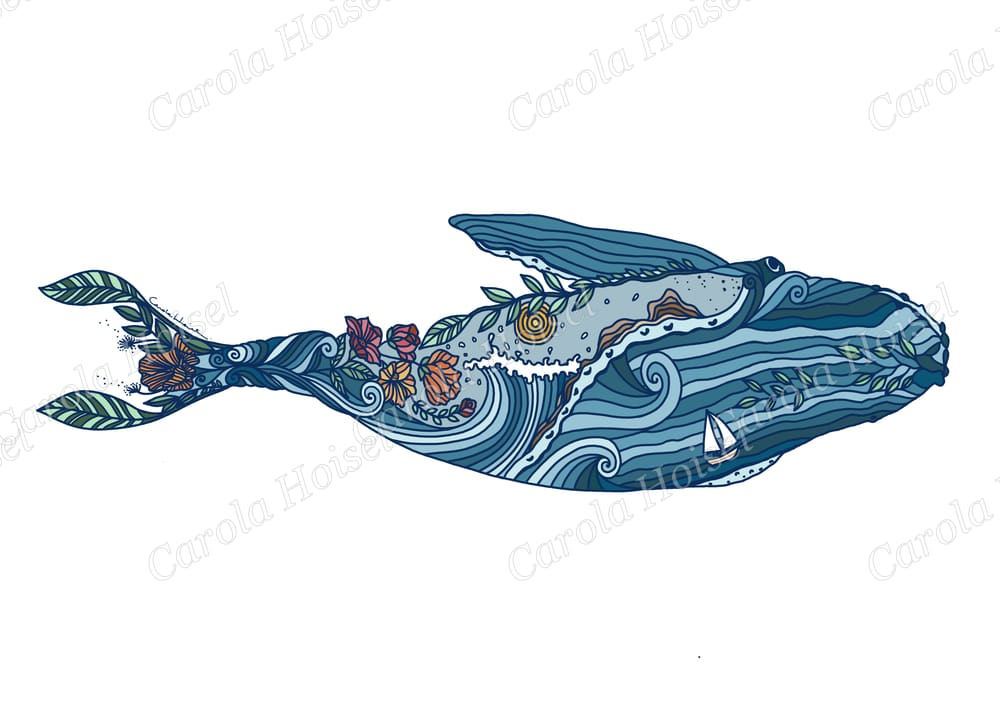
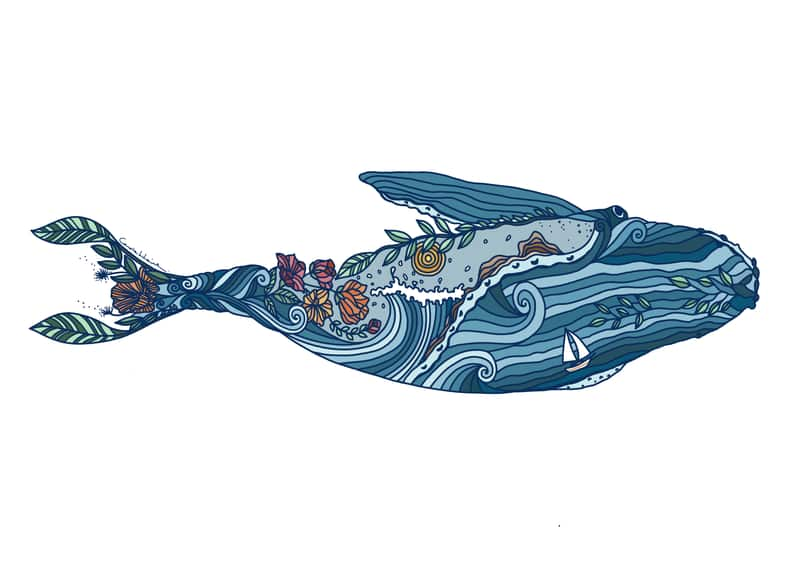
Prévias dos prints sem marca d'água e em qualidade baixa

diff --git a/script.js b/script.js
@@ -119,22 +119,22 @@ const obras = [
   { id: 41, cat: "fine-art", titulo: "Água-viva", tecnica: "Aquarela", cor: "#5d6b7a", image: "AQUARELAS/agua-viva.jpg" },
   { id: 42, cat: "fine-art", titulo: "Xangô", tecnica: "Aquarela", cor: "#9c6244", image: "AQUARELAS/xango.jpg" },
   { id: 43, cat: "fine-art", titulo: "Ibejis", tecnica: "Aquarela", cor: "#c9a882", image: "AQUARELAS/ibejis.jpeg", extras: ["AQUARELAS/ibejis-mockup.jpg"] },
-  { id: 11, cat: "prints", titulo: "Coração do Brasil", tecnica: "Arquivo digital", medidas: "alta resolução", preco: 100, cor: "#d9c4b2", image: "PRINTS-WEB/coracao-do-brasil.jpg" },
-  { id: 12, cat: "prints", titulo: "Polvo Azul", tecnica: "Arquivo digital", medidas: "alta resolução", preco: 100, cor: "#d9c4b2", image: "PRINTS-WEB/polvo-azul.jpg" },
-  { id: 13, cat: "prints", titulo: "Bahia Resistência", tecnica: "Arquivo digital", medidas: "alta resolução", preco: 100, cor: "#d9c4b2", image: "PRINTS-WEB/bahia-resistencia.jpg" },
-  { id: 14, cat: "prints", titulo: "Bananeira", tecnica: "Arquivo digital", medidas: "alta resolução", preco: 100, cor: "#d9c4b2", image: "PRINTS-WEB/bananeira.jpg" },
-  { id: 15, cat: "prints", titulo: "Banana Rosa", tecnica: "Arquivo digital", medidas: "alta resolução", preco: 100, cor: "#d9c4b2", image: "PRINTS-WEB/banana-rosa-agrupada.jpg" },
-  { id: 16, cat: "prints", titulo: "Bomfim", tecnica: "Arquivo digital", medidas: "alta resolução", preco: 100, cor: "#d9c4b2", image: "PRINTS-WEB/bomfim.jpg" },
-  { id: 17, cat: "prints", titulo: "Café para Despertar", tecnica: "Arquivo digital", medidas: "alta resolução", preco: 100, cor: "#d9c4b2", image: "PRINTS-WEB/cafe-para-despertar.jpg" },
-  { id: 18, cat: "prints", titulo: "Eagle Ray", tecnica: "Arquivo digital", medidas: "alta resolução", preco: 100, cor: "#d9c4b2", image: "PRINTS-WEB/eagle-ray.jpg" },
-  { id: 19, cat: "prints", titulo: "Jubarte", tecnica: "Arquivo digital", medidas: "alta resolução", preco: 100, cor: "#d9c4b2", image: "PRINTS-WEB/jubarte.jpg" },
-  { id: 20, cat: "prints", titulo: "Jubarte (fundo amarelo)", tecnica: "Arquivo digital", medidas: "alta resolução", preco: 100, cor: "#d9c4b2", image: "PRINTS-WEB/jubarte-fundo-amarelo.jpg" },
-  { id: 21, cat: "prints", titulo: "Márcio Freire", tecnica: "Arquivo digital", medidas: "alta resolução", preco: 100, cor: "#d9c4b2", image: "PRINTS-WEB/marcio-freire.jpg" },
-  { id: 22, cat: "prints", titulo: "Mermaid", tecnica: "Arquivo digital", medidas: "alta resolução", preco: 100, cor: "#d9c4b2", image: "PRINTS-WEB/parede-agrupada.jpg" },
-  { id: 23, cat: "prints", titulo: "Solitude", tecnica: "Arquivo digital", medidas: "alta resolução", preco: 100, cor: "#d9c4b2", image: "PRINTS-WEB/solitude.jpg" },
-  { id: 24, cat: "prints", titulo: "Sup Yoga", tecnica: "Arquivo digital", medidas: "alta resolução", preco: 100, cor: "#d9c4b2", image: "PRINTS-WEB/sup-yoga.jpg" },
-  { id: 25, cat: "prints", titulo: "Surf Sunset Whale", tecnica: "Arquivo digital", medidas: "alta resolução", preco: 100, cor: "#d9c4b2", image: "PRINTS-WEB/surf-sunset-whale.jpg" },
-  { id: 26, cat: "prints", titulo: "Surfgirl", tecnica: "Arquivo digital", medidas: "alta resolução", preco: 100, cor: "#d9c4b2", image: "PRINTS-WEB/surfgirl.jpg" },
+  { id: 11, cat: "prints", titulo: "Coração do Brasil", tecnica: "Arquivo digital", medidas: "alta resolução", preco: 100, cor: "#d9c4b2", image: "PRINTS-WEB/coracao-do-brasil.jpg?v=2" },
+  { id: 12, cat: "prints", titulo: "Polvo Azul", tecnica: "Arquivo digital", medidas: "alta resolução", preco: 100, cor: "#d9c4b2", image: "PRINTS-WEB/polvo-azul.jpg?v=2" },
+  { id: 13, cat: "prints", titulo: "Bahia Resistência", tecnica: "Arquivo digital", medidas: "alta resolução", preco: 100, cor: "#d9c4b2", image: "PRINTS-WEB/bahia-resistencia.jpg?v=2" },
+  { id: 14, cat: "prints", titulo: "Bananeira", tecnica: "Arquivo digital", medidas: "alta resolução", preco: 100, cor: "#d9c4b2", image: "PRINTS-WEB/bananeira.jpg?v=2" },
+  { id: 15, cat: "prints", titulo: "Banana Rosa", tecnica: "Arquivo digital", medidas: "alta resolução", preco: 100, cor: "#d9c4b2", image: "PRINTS-WEB/banana-rosa-agrupada.jpg?v=2" },
+  { id: 16, cat: "prints", titulo: "Bomfim", tecnica: "Arquivo digital", medidas: "alta resolução", preco: 100, cor: "#d9c4b2", image: "PRINTS-WEB/bomfim.jpg?v=2" },
+  { id: 17, cat: "prints", titulo: "Café para Despertar", tecnica: "Arquivo digital", medidas: "alta resolução", preco: 100, cor: "#d9c4b2", image: "PRINTS-WEB/cafe-para-despertar.jpg?v=2" },
+  { id: 18, cat: "prints", titulo: "Eagle Ray", tecnica: "Arquivo digital", medidas: "alta resolução", preco: 100, cor: "#d9c4b2", image: "PRINTS-WEB/eagle-ray.jpg?v=2" },
+  { id: 19, cat: "prints", titulo: "Jubarte", tecnica: "Arquivo digital", medidas: "alta resolução", preco: 100, cor: "#d9c4b2", image: "PRINTS-WEB/jubarte.jpg?v=2" },
+  { id: 20, cat: "prints", titulo: "Jubarte (fundo amarelo)", tecnica: "Arquivo digital", medidas: "alta resolução", preco: 100, cor: "#d9c4b2", image: "PRINTS-WEB/jubarte-fundo-amarelo.jpg?v=2" },
+  { id: 21, cat: "prints", titulo: "Márcio Freire", tecnica: "Arquivo digital", medidas: "alta resolução", preco: 100, cor: "#d9c4b2", image: "PRINTS-WEB/marcio-freire.jpg?v=2" },
+  { id: 22, cat: "prints", titulo: "Mermaid", tecnica: "Arquivo digital", medidas: "alta resolução", preco: 100, cor: "#d9c4b2", image: "PRINTS-WEB/parede-agrupada.jpg?v=2" },
+  { id: 23, cat: "prints", titulo: "Solitude", tecnica: "Arquivo digital", medidas: "alta resolução", preco: 100, cor: "#d9c4b2", image: "PRINTS-WEB/solitude.jpg?v=2" },
+  { id: 24, cat: "prints", titulo: "Sup Yoga", tecnica: "Arquivo digital", medidas: "alta resolução", preco: 100, cor: "#d9c4b2", image: "PRINTS-WEB/sup-yoga.jpg?v=2" },
+  { id: 25, cat: "prints", titulo: "Surf Sunset Whale", tecnica: "Arquivo digital", medidas: "alta resolução", preco: 100, cor: "#d9c4b2", image: "PRINTS-WEB/surf-sunset-whale.jpg?v=2" },
+  { id: 26, cat: "prints", titulo: "Surfgirl", tecnica: "Arquivo digital", medidas: "alta resolução", preco: 100, cor: "#d9c4b2", image: "PRINTS-WEB/surfgirl.jpg?v=2" },
   { id: 21, cat: "tecido", titulo: "Canga", tecnica: "Canga", medidas: "00 × 00 cm", preco: 180, cor: "#8a9a86", image: "" },
   { id: 22, cat: "tecido", titulo: "Lenço", tecnica: "Lenço de seda", medidas: "00 × 00 cm", preco: 220, cor: "#e3d2c0", image: "" },
   { id: 23, cat: "tecido", titulo: "Pareô", tecnica: "Pareô", medidas: "00 × 00 cm", preco: 160, cor: "#b07a6e", image: "" },

diff --git a/colecao.html b/colecao.html
@@ -10,7 +10,7 @@
   <link
     href="https://fonts.googleapis.com/css2?family=Cormorant+Garamond:wght@400;500;600&family=Nunito:wght@300;400;600&display=swap"
     rel="stylesheet">
-  <link rel="stylesheet" href="styles.css?v=74">
+  <link rel="stylesheet" href="styles.css?v=75">
 </head>
 
 <body id="topo">
@@ -114,7 +114,7 @@
   </aside>
 
   <script src="qrcode.js"></script>
-  <script src="script.js?v=74"></script>
+  <script src="script.js?v=75"></script>
 </body>
 
 </html>

diff --git a/index.html b/index.html
@@ -11,7 +11,7 @@
   <link
     href="https://fonts.googleapis.com/css2?family=Cormorant+Garamond:wght@400;500;600&family=Nunito:wght@300;400;600&display=swap"
     rel="stylesheet">
-  <link rel="stylesheet" href="styles.css?v=74">
+  <link rel="stylesheet" href="styles.css?v=75">
 </head>
 
 <body id="topo">
@@ -217,7 +217,7 @@
   </aside>
 
   <script src="qrcode.js"></script>
-  <script src="script.js?v=74"></script>
+  <script src="script.js?v=75"></script>
 </body>
 
 </html>

diff --git a/orcamento.html b/orcamento.html
@@ -10,7 +10,7 @@
   <link
     href="https://fonts.googleapis.com/css2?family=Cormorant+Garamond:wght@400;500;600&family=Nunito:wght@300;400;600&display=swap"
     rel="stylesheet">
-  <link rel="stylesheet" href="styles.css?v=74">
+  <link rel="stylesheet" href="styles.css?v=75">
 </head>
 
 <body id="topo">
@@ -170,7 +170,7 @@
   </aside>
 
   <script src="qrcode.js"></script>
-  <script src="script.js?v=74"></script>
+  <script src="script.js?v=75"></script>
 </body>
 
 </html>
